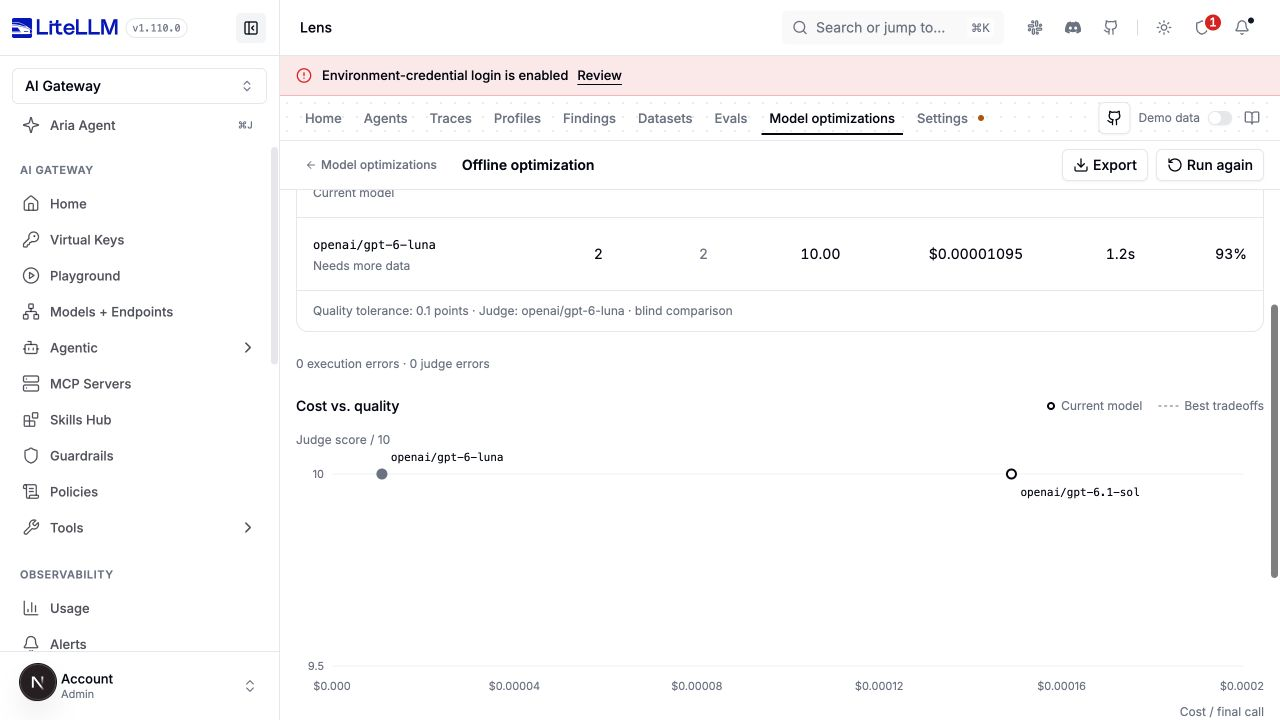
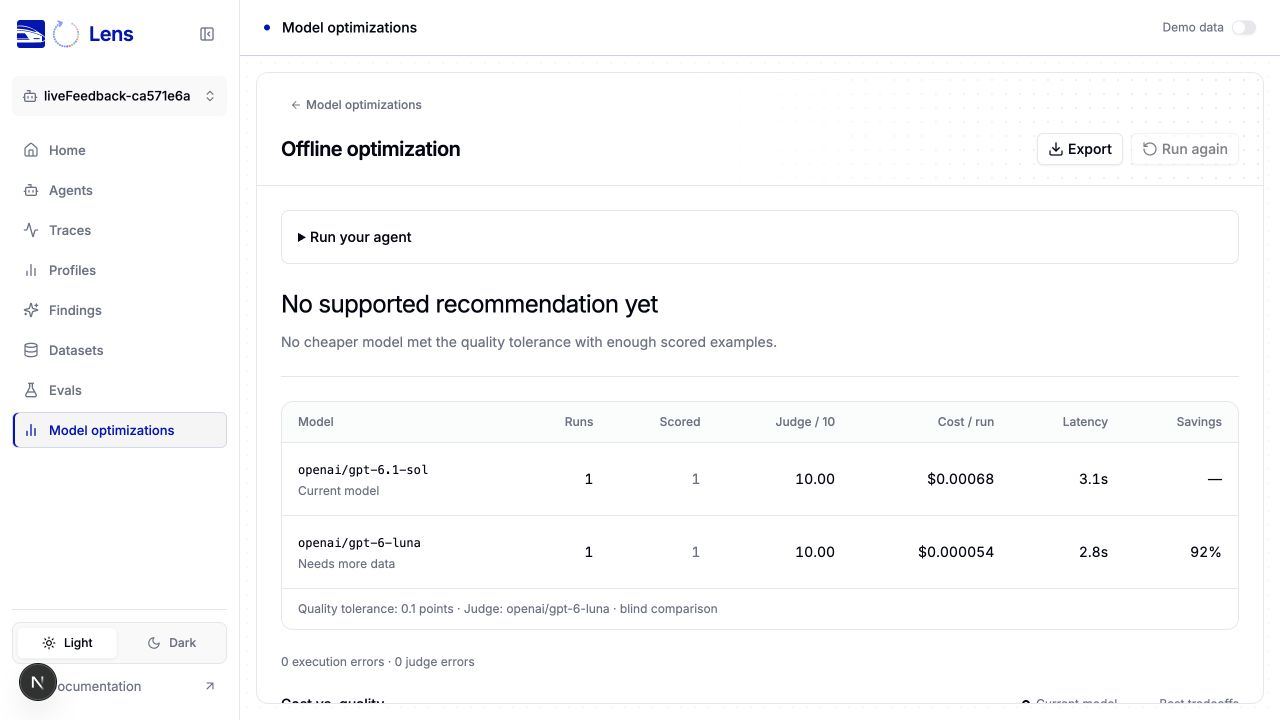
docs(lens): explain model optimizations and link examples

diff --git a/src/ui/lib/src/components/lens/optimizations/OptimizationGuide.tsx b/src/ui/lib/src/components/lens/optimizations/OptimizationGuide.tsx
@@ -1,0 +1,46 @@
+import { ExternalLink } from "lucide-react";
+import type { OptimizationConfig } from "./model";
+
+export const optimizationGuideUrl = "https://github.com/BerriAI/lens/blob/main/docs/model-optimizations.md";
+
+const guides = {
+  live: {
+    description: "Try candidate models on a share of your live agent runs. Compare user feedback or judge scores with cost and latency.",
+    label: "Live",
+    anchor: "live-example",
+  },
+  shadow: {
+    description: "Replay the final model call from sampled traces with candidate models. Your users keep receiving the original answer.",
+    label: "Shadow",
+    anchor: "shadow-example",
+  },
+  offline: {
+    description: "Compare models on a saved dataset. Replay the final model call or run your full agent for each case and model.",
+    label: "Offline",
+    anchor: "offline-example",
+  },
+};
+
+export function OptimizationGuide({ mode, scope }: Pick<OptimizationConfig, "mode" | "scope">) {
+  const guide = mode === "offline" && scope === "agent"
+    ? {
+        description: "Run your agent on each dataset case with each model. Your SDK callback runs the tools and model calls; Lens compares the completed traces.",
+        label: "full-agent",
+        anchor: "full-agent-example",
+      }
+    : guides[mode];
+  return (
+    <div className="grid gap-2 text-sm text-muted-foreground">
+      <p>{guide.description}</p>
+      <a
+        href={`${optimizationGuideUrl}#${guide.anchor}`}
+        target="_blank"
+        rel="noopener noreferrer"
+        className="inline-flex w-fit items-center gap-1.5 text-primary underline-offset-4 hover:underline"
+      >
+        View {guide.label} example
+        <ExternalLink className="size-3.5" aria-hidden="true" />
+      </a>
+    </div>
+  );
+}

diff --git a/src/ui/lib/src/components/lens/optimizations/NewOptimization.tsx b/src/ui/lib/src/components/lens/optimizations/NewOptimization.tsx
@@ -8,6 +8,7 @@ import { Input } from "../../ui/input";
 import { Dialog, DialogContent, DialogHeader, DialogTitle, DialogFooter } from "../../ui/dialog";
 import { Select, SelectContent, SelectItem, SelectTrigger, SelectValue } from "../../ui/select";
 import { useDataset, useDatasets } from "../datasets/api";
+import { OptimizationGuide } from "./OptimizationGuide";
 import {
   baselineFor,
   catalog,
@@ -150,6 +151,7 @@ export function NewOptimization({
         <DialogHeader>
           <DialogTitle>New {modeLabels[mode].toLowerCase()} optimization</DialogTitle>
         </DialogHeader>
+        <OptimizationGuide mode={mode} scope={draft.scope} />
         <form
           className="grid gap-5"
           onSubmit={(event) => {
@@ -206,11 +208,6 @@ export function NewOptimization({
               <Choice label="Current model" value={baseline} items={available.map((model) => ({value: model.id, label: model.id}))} onChange={(baseline) => set({baseline})} />
             </Field>
           ) : <p className="-mt-3 text-xs text-muted-foreground">Current model <span className="font-mono text-foreground">{baseline}</span></p>}
-          {mode === "shadow" && (
-            <p className="text-xs text-muted-foreground">
-              Shadow tests replay the final model call of each sampled trace.
-            </p>
-          )}
           {mode === "offline" && (
             <Field label="Run">
               <Choice

diff --git a/src/ui/lib/src/components/lens/optimizations/ModelOptimizations.tsx b/src/ui/lib/src/components/lens/optimizations/ModelOptimizations.tsx
@@ -12,6 +12,7 @@ import { useOptimizationRoute } from "../route";
 import { resetDemoStorage } from "../data/demo/storage";
 import { NewOptimization } from "./NewOptimization";
 import { OptimizationDetail } from "./OptimizationDetail";
+import { optimizationGuideUrl } from "./OptimizationGuide";
 import { modes, modeLabels, recommendedModel, type Mode, type OptimizationConfig } from "./model";
 import type { OptimizationStore } from "../data/demo/demoOptimizations";
 
@@ -100,6 +101,12 @@ function OptimizationWorkspace({ store, readOnly }: { store: OptimizationStore; 
           />
           <div className="lens-page-body min-h-0 flex-1 overflow-y-auto">
             <div className="mx-auto grid max-w-[1200px] gap-5">
+              <p className="text-sm text-muted-foreground">
+                Compare models for your agent using quality scores, cost, and latency.{" "}
+                <a href={optimizationGuideUrl} target="_blank" rel="noopener noreferrer" className="text-primary underline-offset-4 hover:underline">
+                  How it works
+                </a>
+              </p>
               <div className="flex flex-wrap items-center justify-between gap-4">
                 <div role="group" aria-label="Optimization type" className="flex gap-1">
                   {(["all", ...modes] as const).map((mode) => (

diff --git a/src/ui/lib/src/components/lens/optimizations/OptimizationDetail.tsx b/src/ui/lib/src/components/lens/optimizations/OptimizationDetail.tsx
@@ -9,6 +9,7 @@ import { useOpenSourceTrace } from "../route";
 import { Choice } from "./NewOptimization";
 import { CostQualityPlot } from "./CostQualityPlot";
 import { RunnerSetup } from "./RunnerSetup";
+import { OptimizationGuide } from "./OptimizationGuide";
 import {
   baselineFor,
   comparisonRows,
@@ -158,6 +159,7 @@ export function OptimizationDetail({
       <div className="lens-page-body min-h-0 flex-1 overflow-y-auto">
         <div className="mx-auto grid w-full max-w-[1200px] gap-6">
           {run.error && <p role="alert" className="text-sm text-destructive">{run.error}</p>}
+          <OptimizationGuide mode={run.config.mode} scope={run.config.scope} />
           {store.live && run.config.mode === "live" && <RunnerSetup run={run} />}
           {store.live && run.config.mode === "offline" && run.config.scope === "agent" && <RunnerSetup run={run} />}
           <div className="grid gap-3 border-b pb-6">

diff --git a/src/sdk/examples/optimizations.py b/src/sdk/examples/optimizations.py
@@ -125,7 +125,7 @@ class Agent:
 
 async def main() -> None:
     parser: Final = argparse.ArgumentParser()
-    parser.add_argument("mode", choices=("live", "offline"))
+    parser.add_argument("mode", choices=("live", "shadow", "offline"))
     parser.add_argument("--question", default="What is 2 + 2?")
     args: Final = parser.parse_args()
     client: Final = Lens(os.environ["LENS_BASE_URL"], os.environ["LENS_API_KEY"])
@@ -135,6 +135,11 @@ async def main() -> None:
         print(f"Submitted {completed} full-agent trials")
         return
     trace_id: Final = uuid4().hex
+    if args.mode == "shadow":
+        model: Final = os.environ["LENS_OPTIMIZATION_BASELINE"]
+        await agent.run(Case(trace_id, args.question), model, trace_id)
+        print(json.dumps({"traceId": trace_id, "model": model}))
+        return
     assignment: Final = await client.optimizations.aassign(
         agent=agent.name,
         baseline=os.environ["LENS_OPTIMIZATION_BASELINE"],

diff --git a/docs/model-optimizations.md b/docs/model-optimizations.md
@@ -1,49 +1,150 @@
 # Model optimizations
 
-Open **Lens > Model optimizations** in the gateway. Create a Live, Shadow, or Offline comparison, choose an agent, its current model, and candidates from the gateway catalog. Results survive Lens restarts
+Compare models on your agent's work before changing its default model. In **Lens > Model optimizations**, you can compare answer quality, cost, and latency, then open individual answers and their source traces
 
-Use the Lens server, UI package, and SDK from this change together. Install the SDK from the checked-out source with `pip install './src/sdk[examples]'`; the published preview does not include this API yet. The existing [Lens deployment](../deploy/lens/README.md) must have a working gateway connection and agent tracing
+Choose how to collect the comparison:
 
-Model discovery and replay use the server's configured gateway key. Admins create and control comparisons; admin viewers can read results. The catalog describes that execution key's access. Live assignments additionally filter candidates against the calling gateway key's permitted models. The gateway enforces inference permissions on every request
+| Type | What runs | Use it to |
+| --- | --- | --- |
+| [Live](#live) | Your agent serves a share of live requests with candidate models | Measure quality and cost on real user traffic |
+| [Shadow](#shadow) | Lens replays the final model call from sampled traces | Compare answers while users keep receiving the original response |
+| [Offline](#offline) | Lens tests a saved dataset with each model | Compare the same cases, using final-call replay or your full agent |
+
+Your current model is the **baseline**. The other models you select are **candidates**. Each comparison has its own results, quality settings, and pause/resume controls
+
+## Before you start
+
+Use a [Lens deployment](../deploy/lens/README.md) connected to your LiteLLM gateway, with agent traces reaching Lens and models available through that gateway. Open Lens with a proxy administrator account to create and control comparisons. Admin viewers can read results
+
+Keep **Demo data** off when running your own comparisons. To explore the screens with sample traffic, use the [demo walkthrough](demo-model-optimizations.md)
+
+For the runnable examples below, use Python 3.11 or newer. From a Lens checkout, install the SDK and example dependencies:
+
+```sh
+python -m pip install './src/sdk[examples]'
+```
+
+Load the following values into your shell through your environment or secret manager:
+
+| Variable | Value |
+| --- | --- |
+| `LENS_BASE_URL` | Gateway origin reachable from your agent, such as `https://gateway.example.com` |
+| `LENS_API_KEY` | Gateway key for the account running the comparison |
+| `LITELLM_PROXY_API_BASE` | Gateway model API base, such as `https://gateway.example.com/v1` |
+| `LITELLM_PROXY_API_KEY` | Gateway key for model calls |
+| `LENS_TRACE_ENDPOINT` | Full OTLP HTTP trace endpoint from Lens tracing setup, ending in `/v1/traces` |
+| `LENS_TRACE_API_KEY` | Tracing key created in Lens |
+| `LENS_OPTIMIZATION_AGENT` | Agent name to record, such as `model-comparison-example` |
+| `LENS_OPTIMIZATION_BASELINE` | Current model's exact name in your gateway catalog |
+
+Use inference and tracing credentials for the same team and user so Lens can join model spend to the trace. The [example agent](../src/sdk/examples/optimizations.py) reads these values, calls the gateway, and exports the completed trace
+
+Run it once to make the agent available in Lens:
+
+```sh
+python src/sdk/examples/optimizations.py shadow --question 'What is 3 times 6?'
+```
+
+The command prints the trace ID and model. Find that ID under **Traces** and open its answer before creating a comparison
 
 ## Live
 
-Choose the traffic percentage and either existing 0–10 feedback or an LLM judge. The percentage is the total share assigned to candidates, divided among eligible candidates; the rest remains on the baseline. Pick a judge model and rubric when using an LLM judge. Baseline and candidate judging percentages can differ
+Test candidate models on a share of your agent's live runs. Users receive the answer from the assigned model, and you compare its cost and quality with the baseline
 
-Add one model-selection call before starting a traced agent run. Use the same trace ID when exporting its spans, and keep the returned model for that run's model calls:
+Set the share of traffic that candidates receive. For example, 10% traffic with two candidates gives each candidate about 5% of runs and leaves 90% on the baseline. Measure quality with existing 0–10 user feedback or an LLM judge
+
+### Live example
+
+1. Open **Model optimizations > New optimization > Live**
+2. Choose your agent and **Current model**. Set **Traffic**, then select candidate models under **Models**
+3. Under **Quality**, choose **LLM judge** and a **Judge model**. Open **Advanced** to set the **Quality rubric** and judge sampling percentages
+4. Choose **Start live test**, then run:
+
+```sh
+python src/sdk/examples/optimizations.py live --question 'What is 3 times 6?'
+```
+
+The [runnable Live example](../src/sdk/examples/optimizations.py) selects a model, runs the agent, and prints the trace ID, model, and whether it used the baseline:
+
+```json
+{"traceId": "11111111111111111111111111111111", "model": "candidate-model", "baseline": false}
+```
+
+Open the comparison to see the run, cost, latency, and judge score. Repeat with representative questions to collect results for both groups. For **User feedback**, scores come from feedback already attached to each trace
+
+To connect your own agent, add this call before a run and use the returned model for that run's model calls:
 
 ```python
-import os
-from lens import Lens
-
-lens = Lens(os.environ["LENS_BASE_URL"], os.environ["LENS_API_KEY"])
-assignment = lens.optimizations.assign(
+assignment = await lens.optimizations.aassign(
     agent=agent_name,
     baseline=current_model,
     trace_id=trace_id,
 )
-model = assignment.model
+result = await agent.run(input, model=assignment.model, trace_id=trace_id)
 ```
 
-`LENS_BASE_URL` is the gateway origin; `LENS_API_KEY` is the caller's existing gateway key. Use `await lens.optimizations.aassign(...)` in async code. Assignment failures return the supplied baseline by default. Set `fail_open=False` to surface setup failures
-
-Start a run and open the comparison to verify that its model and measured cost appear. Feedback joins the trace's existing feedback records. No feedback means no quality score; Lens does not invent one. Live experiments with the same agent, team, and baseline cannot overlap
+The comparison's **Connect live routing** panel provides the snippet with your agent and baseline filled in. Export spans with the same trace ID. The SDK keeps the supplied baseline if assignment fails; use `fail_open=False` to surface connection errors during setup
 
 ## Shadow
 
-Choose the traffic percentage, candidates, and judge. Lens samples completed traces automatically and replays the final LLM request. It retains prior recorded context when scoring each final answer and excludes the original final answer from the candidate's judge context
+Compare candidate answers alongside incoming traffic. After a sampled trace completes, Lens sends its final recorded model request to the candidates and scores their answers against the original. Your user keeps the original response
 
-For faithful replay, record the complete Chat Completions request JSON in the final span's `lens.replay.request` attribute. Include messages, tool-call IDs, function definitions, and any sampling or response-format settings. Do not include credentials. Lens removes the original model, streaming flag, and metadata before supplying its own model and internal evaluation identity
+Shadow measures the final call's cost and quality. Use it to compare the answer step of an agent while keeping the recorded conversation and tool results
 
-Plain recorded text conversations can replay with gateway defaults. Missing tool definitions, multimodal messages, hosted tools, unsupported request settings, parallel final calls, and traces over 500 spans are not silently approximated. Use a full-agent comparison for these cases. A captured request is limited to 1 MB
+### Shadow example
 
-A Shadow result measures the final call's cost and quality. It does not predict the cost of changing every earlier model call in the agent
+1. Open **Model optimizations > New optimization > Shadow**
+2. Choose the agent, current model, candidates, and judge. Set **Traffic** to the share of completed traces to sample
+3. Choose **Start shadow test**, then send a traced baseline run:
+
+```sh
+python src/sdk/examples/optimizations.py shadow --question 'What is 3 times 6?'
+```
+
+The [runnable Shadow example](../src/sdk/examples/optimizations.py) prints the original trace ID and model. Open the comparison to see the baseline and candidate answers, their judge scores, and cost per final call
+
+For your own agent, record the complete Chat Completions request JSON on the final model span as `lens.replay.request`. Include messages, tool-call IDs, function definitions, and sampling or response-format settings. Keep credentials out of that attribute. The example exports this request with the model response ID, which Lens uses to find the call's cost
 
 ## Offline
 
-Select a dataset revision and **Final call** to replay each included case with both the selected baseline and candidate models. Both are fresh requests scored with the same rubric. Dataset requests remain pinned to that revision; editing a saved case invalidates its previous request snapshot and trace source so old inputs cannot silently be replayed
+Compare models on a saved dataset revision. You choose the cases, baseline, candidates, and judge. Both the baseline and candidates make fresh model calls, and Lens scores them with the same rubric
 
-Select **Full agent** when a comparison needs tools, application state, or multiple model calls. Run the task in the environment that already has those dependencies:
+Choose **Final model call** to reuse recorded conversation and tool results. Choose **Full agent** to execute your agent's tools and model calls for each case. Offline refers to the saved dataset; both paths make real model requests through your gateway
+
+### Offline example
+
+1. Open a trace and choose **Add to dataset**. Save its conversation as a case, then open the dataset
+2. Review the included cases and their **Expected** answers. Save your edits as a revision
+3. Choose **Optimize models**, keep **Final model call**, and select the current model, candidates, and judge
+4. Choose **Run comparison**
+
+Lens runs the included cases with each model. The comparison reaches **Completed** when the batch finishes. Open a case to compare answers and follow **Open source trace** to inspect its recorded context
+
+The comparison uses the selected dataset revision. Later edits belong to a new revision, so you can rerun a known set of cases
+
+### Full-agent example
+
+Use this path to compare the whole task, including tool execution and multiple model calls. Your SDK runner executes the agent in your environment, where its dependencies and application access are available
+
+1. Open a dataset and choose **Optimize models**
+2. Select **Full agent**, the current model, candidates, and judge, then choose **Run comparison**
+3. Open **Run your agent** in the comparison. Copy its snippet to connect your agent, or use the [runnable full-agent example](../src/sdk/examples/optimizations.py)
+4. For the example, set `LENS_OPTIMIZATION_AGENT` to the dataset's agent name. Copy the comparison ID from the `lens.optimizations.arun(...)` call in that panel:
+
+```sh
+export LENS_OPTIMIZATION_ID='comparison-id-from-the-runner-snippet'
+python src/sdk/examples/optimizations.py offline
+```
+
+For one case and two models, the example prints:
+
+```text
+Submitted 2 full-agent trials
+```
+
+Each trial calls your task with a dataset case and the model to use. Your task returns a fresh completed trace. Lens then records the answer, total agent cost, duration, and judge score
+
+To use your own agent, adapt its interface in the generated snippet:
 
 ```python
 import os
@@ -60,19 +161,45 @@ async def task(case, model):
     )
     return Run(trace={"trace_id": result.trace_id})
 
-await lens.optimizations.arun(optimization_id, task=task)
+completed = await lens.optimizations.arun(
+    os.environ["LENS_OPTIMIZATION_ID"], task=task
+)
+print(f"Submitted {completed} full-agent trials")
 ```
 
-Adapt `my_agent` to your agent's interface. Export the trial ID on its root span, use the selected agent name, and export a fresh completed trace. Lens checks the trial ID, creation time, team, agent, and final requested model before accepting the result. The task runs locally; Lens does not call a user-supplied runner URL. Each task has eight minutes to run, followed by up to 90 seconds for trace ingestion. Lost or expired work is reported as uncertain and is not automatically repeated. After a process interruption, recovery can wait up to ten minutes for the current lease to expire
-
-[The executable example](../src/sdk/examples/optimizations.py) includes a small gateway-backed agent and OTLP export. Set `LENS_BASE_URL`, `LENS_API_KEY`, `LITELLM_PROXY_API_BASE`, `LITELLM_PROXY_API_KEY`, `LENS_TRACE_ENDPOINT`, `LENS_TRACE_API_KEY`, and `LENS_OPTIMIZATION_AGENT` in your shell. Use tracing and inference credentials for the same team and user so gateway spend can join to the trace. Set `LENS_OPTIMIZATION_BASELINE` for `python src/sdk/examples/optimizations.py live`, or `LENS_OPTIMIZATION_ID` for `python src/sdk/examples/optimizations.py offline`. Keep all credential values in your environment or secret manager
-
-This callback path reuses the SDK's `Case` and `Run` contract. Saved HTTP `agent_io` definitions do not yet accept candidate-model overrides
+Replace `my_agent` with your application's agent. Use the supplied model, export the trial ID on the root span, and return the completed trace ID. The SDK callback supports your multi-step agent; the runnable example provides a small one-call agent to demonstrate the connection
 
 ## Read results
 
-The cost/quality plot and model table use measured results. Missing cost or quality remains missing. Provider failures, incomplete answers, fallback models, and judge failures are visible and prevent a migration recommendation. Costs represent serving spend; replay and judging incur additional gateway charges
+The model table shows run counts, scores, cost, latency, and savings. The cost/quality plot helps you compare the tradeoff. Open a case for side-by-side answers and its source trace, or choose **Export** to download the model table as CSV
 
-Recommendations need at least 30 scored observations and a 95% normal-approximation lower bound within the selected score tolerance. Replay uses paired score differences; Live uses independent groups. Feedback also needs at least 50% coverage and similar coverage between groups. These checks do not remove selection bias or make an LLM judge equivalent to user feedback
+This full-agent calculator example answered “What is 3 times 6?” with two model calls and a tool call per trial:
 
-Pause stops new assignments and queued model calls; a call already in flight may finish. Finish freezes the collected results and marks unfinished work as stopped. An in-flight request can still incur charges. Feedback or spend that arrives after finishing is not added to that snapshot. The initial limits are 100 saved comparisons, eight candidates, 500 included dataset cases, 5,000 Live assignments per comparison, and roughly 4,500 collected result rows for ongoing comparisons. Reaching a sample limit pauses collection. Gateway errors remain visible; create a new comparison to retry an uncertain provider outcome
+| Model | Answer | Judge / 10 | Total agent cost | Duration |
+| --- | --- | ---: | ---: | ---: |
+| `openai/gpt-6.1-sol` | `18` | 10.00 | $0.000680 | 3.08s |
+| `openai/gpt-6-luna` | `18` | 10.00 | $0.000054 | 2.82s |
+
+![Lens results for the full-agent calculator example, showing score, cost, latency, and savings for both models](assets/model-optimizations-results.jpg)
+
+With one case per model, the example shows **No supported recommendation yet**. Collect representative cases before choosing a model. A recommendation requires at least 30 scored observations and a quality confidence bound within your selected tolerance. Feedback comparisons also need at least 50% coverage with similar coverage between groups
+
+Missing cost or quality stays blank. Check the execution and judge error counts, then inspect the affected case and source trace for failed calls, incomplete answers, or model fallbacks. Costs in the table represent serving spend; replay and judging add gateway charges
+
+## Control a comparison
+
+**Pause** stops new assignments and queued calls. **Resume** continues collection. **Finish test** freezes a Live or Shadow comparison's collected results, including feedback and spend received so far. A call already in flight can finish and incur charges
+
+Use **Run again** to create another comparison with the same settings. From a Shadow or Offline recommendation, **Start live test** carries the recommended model into Live setup
+
+## Execution reference
+
+Model discovery and replay use the Lens server's configured gateway key. Live assignment also checks the caller's permitted models. Live comparisons for the same agent, team, and baseline cannot overlap
+
+Recommendations use a 95% normal-approximation lower bound: paired score differences for replay, independent groups for Live. Missing metrics and execution or judge errors prevent a recommendation
+
+Final-call replay supports captured Chat Completions text and function-tool requests. Use full-agent execution for multimodal input, hosted tools, ambiguous parallel final calls, or provider-specific replay metadata. Capture requests up to 1 MB and traces up to 500 spans for final-call replay
+
+Full-agent execution uses the SDK callback and its `Case`/`Run` contract. Lens matches each submitted trace to the trial, creation time, team, agent, and requested model. Each task has eight minutes to run, followed by up to 90 seconds for trace ingestion. After an interrupted process, the active lease can take up to ten minutes to expire. Uncertain paid calls remain visible for review instead of triggering another execution
+
+Comparisons support eight candidates and 500 included dataset cases. Lens stores up to 100 comparisons, with 5,000 Live assignments per comparison and about 4,500 collected result rows for ongoing comparisons. Reaching the sample limit pauses collection

diff --git a/deploy/lens/README.md b/deploy/lens/README.md
@@ -34,6 +34,8 @@ For an OTLP exporter, send traces to `http://localhost:4318/v1/traces` with `Aut
 
 You can record traces without an analysis model. When you want Lens to investigate them, follow [Configure analysis models](../../docs/analysis.md), then open **Investigations** and create an investigation with an analysis model and monthly spending limit. [Signals](../../docs/signals.md) use a separate evaluation provider to flag matching traces
 
+To compare models for your agent, open **Model optimizations**. The [model optimizations guide](../../docs/model-optimizations.md) explains Live, Shadow, and Offline comparisons, with runnable examples and the results you can expect
+
 ## Trace content and size
 
 Lens preserves accepted input, output, and attribute values without truncation. Oversized requests are rejected with HTTP 413. Trace uploads and internal spend batches accept up to 32 MiB per request; gzip uploads must also expand to at most 32 MiB across all members. Other API request bodies, including dataset, eval, signal and feedback requests, accept up to 2 MiB. Reduce the exporter batch size or split an API operation when it exceeds these limits

diff --git a/src/sdk/README.md b/src/sdk/README.md
@@ -67,7 +67,7 @@ The package is `lens-evals`; the import stays `lens`. Python 3.11+ is supported.
 
 ## Model optimizations
 
-Use `lens.optimizations.assign(...)` to select a model once per live agent run, or `lens.optimizations.arun(optimization_id, task=task)` to run a full-agent model comparison in your environment. See [Model optimizations](../../docs/model-optimizations.md) for setup, trace correlation, limitations, and an executable example
+Use `lens.optimizations.assign(...)` to select a model once per live agent run, or `lens.optimizations.arun(optimization_id, task=task)` to run a full-agent model comparison in your environment. Follow the [Live](../../docs/model-optimizations.md#live-example), [Shadow](../../docs/model-optimizations.md#shadow-example), or [full-agent Offline](../../docs/model-optimizations.md#full-agent-example) example to connect your agent and inspect its results
 
 ## Install
 
